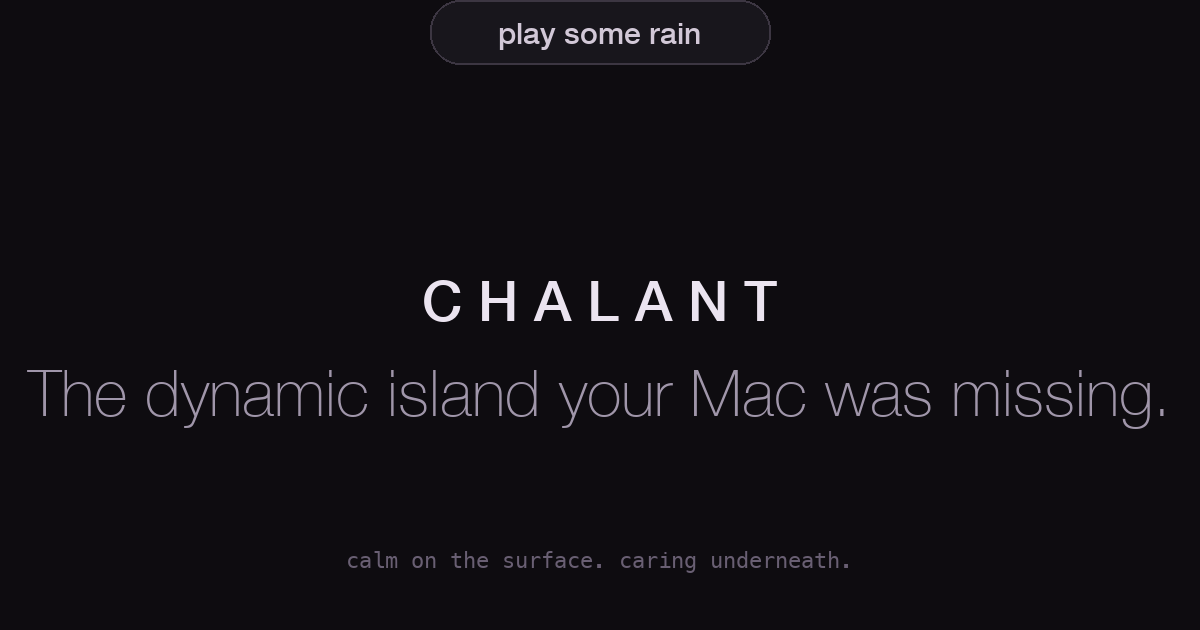
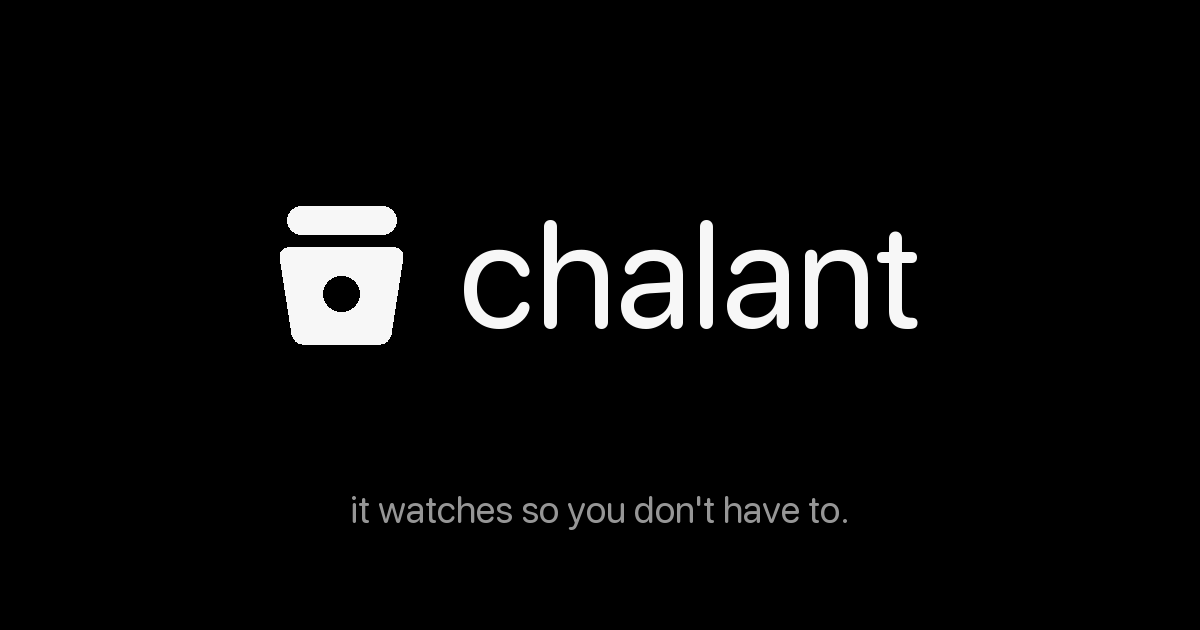
Round 148 · the watcher, everywhere
Brand v0.3, adopted: the mark is the little watcher (a floating
bar, a tapered body, one eye). New app icon, menu bar glyph, and
in-app mark, all matching. Social card and landing wordmark
redrawn in SF Rounded; the last moai relic in the footer retired.
It watches so you don't have to.

Claude-Session: https://claude.ai/code/session_01GBy3mdeX5wexL2qBfmQLaf

diff --git a/Chalant/Views/Components.swift b/Chalant/Views/Components.swift
@@ -349,33 +349,55 @@ struct PressableStyle: ButtonStyle {
 /// around the icon, a tint lift and faint halo on hover, and a press
 /// sink. Every bare-glyph control in the app routes through this.
 
-/// The house mark: the island silhouette itself. Flat across the
-/// top the way the pill meets the screen's edge, rounded below into
-/// a soft belly. A downward tab, not a horizontal capsule; no circle
-/// anywhere, so it can never be read as a toggle switch. This is the
-/// product's own shape, distilled.
+/// A rounded quadrilateral: each corner cut back by `r` and bridged
+/// with a quad curve. Used for the mark's tapered body.
+private func roundedQuad(
+    _ a: CGPoint, _ b: CGPoint, _ c: CGPoint, _ d: CGPoint, r: CGFloat
+) -> Path {
+    let pts = [a, b, c, d]
+    var path = Path()
+    func unit(_ from: CGPoint, _ to: CGPoint) -> CGPoint {
+        let dx = to.x - from.x, dy = to.y - from.y
+        let len = max(hypot(dx, dy), 0.0001)
+        return CGPoint(x: dx / len, y: dy / len)
+    }
+    for i in 0..<4 {
+        let cur = pts[i], prev = pts[(i + 3) % 4], next = pts[(i + 1) % 4]
+        let up = unit(cur, prev), un = unit(cur, next)
+        let p1 = CGPoint(x: cur.x + up.x * r, y: cur.y + up.y * r)
+        let p2 = CGPoint(x: cur.x + un.x * r, y: cur.y + un.y * r)
+        if i == 0 { path.move(to: p1) } else { path.addLine(to: p1) }
+        path.addQuadCurve(to: p2, control: cur)
+    }
+    path.closeSubpath()
+    return path
+}
+
+/// The house mark: the little watcher. A rounded bar floats above a
+/// tapered body with one round eye; "it watches so you don't have
+/// to." No horizontal capsule, no knob, so it never reads as a
+/// toggle. Rendered with an even-odd fill so the eye stays open.
 struct ChalantMarkShape: Shape {
     func path(in rect: CGRect) -> Path {
         let d = min(rect.width, rect.height)
-        let w = d * 0.78
-        let x0 = rect.midX - w / 2
-        let x1 = rect.midX + w / 2
-        let top = rect.midY - d * 0.30
-        let shoulder = rect.midY + d * 0.02
-        let belly = rect.midY + d * 0.40
-        let corner = d * 0.09
+        let scale = d * 1.34
+        let cx = rect.midX
+        let top = rect.midY - 0.33 * scale
         var p = Path()
-        p.move(to: CGPoint(x: x0, y: top + corner))
-        p.addQuadCurve(to: CGPoint(x: x0 + corner, y: top),
-                       control: CGPoint(x: x0, y: top))
-        p.addLine(to: CGPoint(x: x1 - corner, y: top))
-        p.addQuadCurve(to: CGPoint(x: x1, y: top + corner),
-                       control: CGPoint(x: x1, y: top))
-        p.addLine(to: CGPoint(x: x1, y: shoulder))
-        p.addCurve(to: CGPoint(x: x0, y: shoulder),
-                   control1: CGPoint(x: x1, y: belly),
-                   control2: CGPoint(x: x0, y: belly))
-        p.closeSubpath()
+        let pw = 0.52 * scale, ph = 0.135 * scale
+        p.addRoundedRect(
+            in: CGRect(x: cx - pw / 2, y: top, width: pw, height: ph),
+            cornerSize: CGSize(width: ph / 2, height: ph / 2)
+        )
+        let bodyTop = top + 0.20 * scale, bodyBot = top + 0.66 * scale
+        let tw = 0.60 * scale, bw = 0.46 * scale
+        p.addPath(roundedQuad(
+            CGPoint(x: cx - tw / 2, y: bodyTop), CGPoint(x: cx + tw / 2, y: bodyTop),
+            CGPoint(x: cx + bw / 2, y: bodyBot), CGPoint(x: cx - bw / 2, y: bodyBot),
+            r: 0.06 * scale
+        ))
+        let er = 0.085 * scale, ecy = top + 0.42 * scale
+        p.addEllipse(in: CGRect(x: cx - er, y: ecy - er, width: er * 2, height: er * 2))
         return p
     }
 }
@@ -390,6 +412,7 @@ struct GlyphImage: View {
     var body: some View {
         if symbol == "chalant.mark" {
             ChalantMarkShape()
+                .fill(style: FillStyle(eoFill: true))
                 .frame(width: scale.rawValue + 2, height: scale.rawValue + 2)
         } else {
             Image(systemName: symbol)

diff --git a/Chalant/ChalantApp.swift b/Chalant/ChalantApp.swift
@@ -48,30 +48,44 @@ final class AppDelegate: NSObject, NSApplicationDelegate {
 
         // Tiny menu bar item so the agent app can be quit
         let item = NSStatusBar.system.statusItem(withLength: NSStatusItem.squareLength)
-        // The house mark, drawn by hand: the island silhouette. Flat
-        // across the top like the pill meeting the screen edge, a soft
-        // rounded belly below. A downward tab with no circle in it, so
-        // it never reads as a toggle beside the system ones.
+        // The house mark, drawn by hand: the little watcher. A floating
+        // bar over a tapered body with one eye, its ember punched
+        // through. Even-odd fill keeps the eye open. Matches the app
+        // icon exactly; no capsule, so it can't read as a toggle.
         let icon = NSImage(size: NSSize(width: 18, height: 18), flipped: false) { _ in
-            // y is up: the flat top sits high, the belly hangs below.
-            let x0 = 4.2, x1 = 13.8, topY = 12.6, shoulderY = 8.8
-            let corner = 1.5
-            let p = NSBezierPath()
-            p.move(to: NSPoint(x: x0, y: topY - corner))
-            p.curve(to: NSPoint(x: x0 + corner, y: topY),
-                    controlPoint1: NSPoint(x: x0, y: topY),
-                    controlPoint2: NSPoint(x: x0, y: topY))
-            p.line(to: NSPoint(x: x1 - corner, y: topY))
-            p.curve(to: NSPoint(x: x1, y: topY - corner),
-                    controlPoint1: NSPoint(x: x1, y: topY),
-                    controlPoint2: NSPoint(x: x1, y: topY))
-            p.line(to: NSPoint(x: x1, y: shoulderY))
-            p.curve(to: NSPoint(x: x0, y: shoulderY),
-                    controlPoint1: NSPoint(x: x1, y: 3.4),
-                    controlPoint2: NSPoint(x: x0, y: 3.4))
-            p.close()
+            let scale = 22.4, cx = 9.0, topY = 16.5  // y up: pill high, body below
+            let path = NSBezierPath()
+            path.windingRule = .evenOdd
+            let pw = 0.52 * scale, ph = 0.135 * scale
+            path.appendRoundedRect(
+                NSRect(x: cx - pw / 2, y: topY - ph, width: pw, height: ph),
+                xRadius: ph / 2, yRadius: ph / 2
+            )
+            let bodyTop = topY - 0.20 * scale, bodyBot = topY - 0.66 * scale
+            let tw = 0.60 * scale, bw = 0.46 * scale
+            let r = 0.06 * scale
+            let corners = [
+                (cx - tw / 2, bodyTop), (cx + tw / 2, bodyTop),
+                (cx + bw / 2, bodyBot), (cx - bw / 2, bodyBot),
+            ]
+            for i in 0..<4 {
+                let cur = corners[i], prev = corners[(i + 3) % 4], next = corners[(i + 1) % 4]
+                func unit(_ f: (Double, Double), _ t: (Double, Double)) -> (Double, Double) {
+                    let dx = t.0 - f.0, dy = t.1 - f.1, L = max((dx * dx + dy * dy).squareRoot(), 0.0001)
+                    return (dx / L, dy / L)
+                }
+                let up = unit(cur, prev), un = unit(cur, next)
+                let p1 = NSPoint(x: cur.0 + up.0 * r, y: cur.1 + up.1 * r)
+                let p2 = NSPoint(x: cur.0 + un.0 * r, y: cur.1 + un.1 * r)
+                let ctl = NSPoint(x: cur.0, y: cur.1)
+                if i == 0 { path.move(to: p1) } else { path.line(to: p1) }
+                path.curve(to: p2, controlPoint1: ctl, controlPoint2: ctl)
+            }
+            path.close()
+            let er = 0.085 * scale, ecy = topY - 0.42 * scale
+            path.appendOval(in: NSRect(x: cx - er, y: ecy - er, width: er * 2, height: er * 2))
             NSColor.black.setFill()
-            p.fill()
+            path.fill()
             return true
         }
         icon.isTemplate = true

diff --git a/docs/index.html b/docs/index.html
@@ -112,12 +112,12 @@
   .hero { padding: 96px 0 72px; }
 
   .wordmark {
-    font-size: 15px;
+    font-family: ui-rounded, "SF Pro Rounded", system-ui, var(--sans);
+    font-size: 22px;
     font-weight: 600;
-    letter-spacing: 0.34em;
-    text-transform: uppercase;
+    letter-spacing: 0.01em;
+    text-transform: lowercase;
     color: var(--mist);
-    padding-left: 0.34em; /* recenter the tracked text */
   }
 
   h1 {
@@ -280,7 +280,7 @@
 
 <main>
   <section class="hero">
-    <div class="wordmark">Chalant</div>
+    <div class="wordmark">chalant</div>
     <h1>The dynamic island<br>your Mac was missing.</h1>
     <p class="sub">
       Talk to it or type at it. Calendar, focus, music, windows, files.
@@ -352,7 +352,7 @@
 </main>
 
 <footer>
-  <span>mo·ai. you heard it.</span>
+  <span>chalant · it watches so you don't have to.</span>
   <a href="https://github.com/chetanjon/chalant">github</a>
 </footer>
 